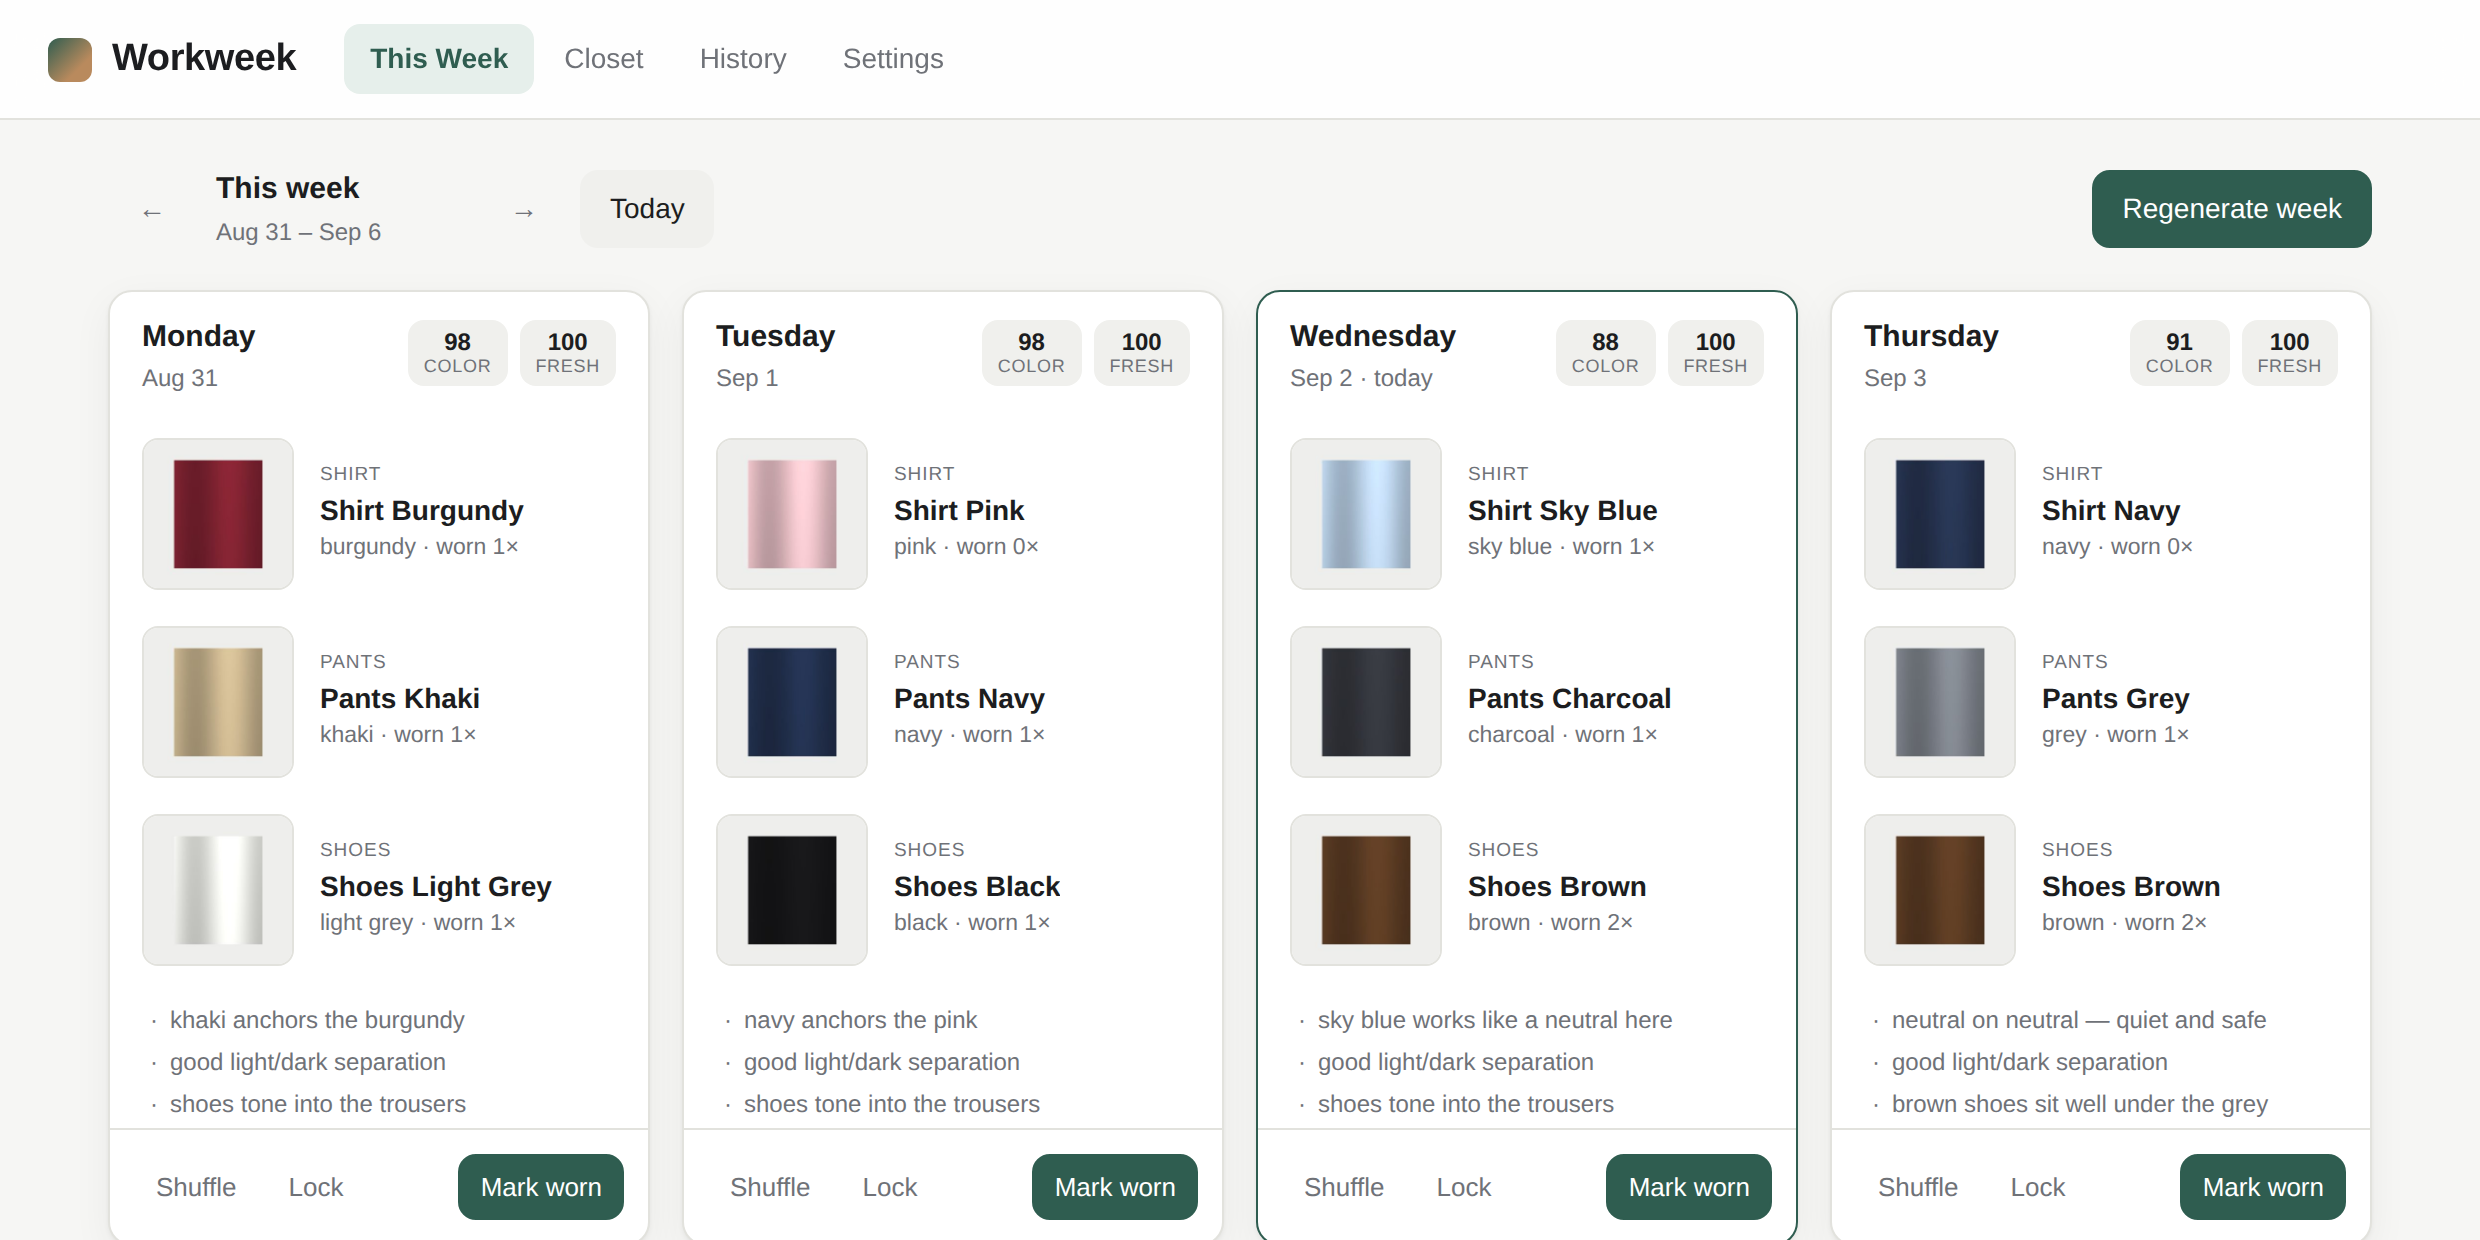
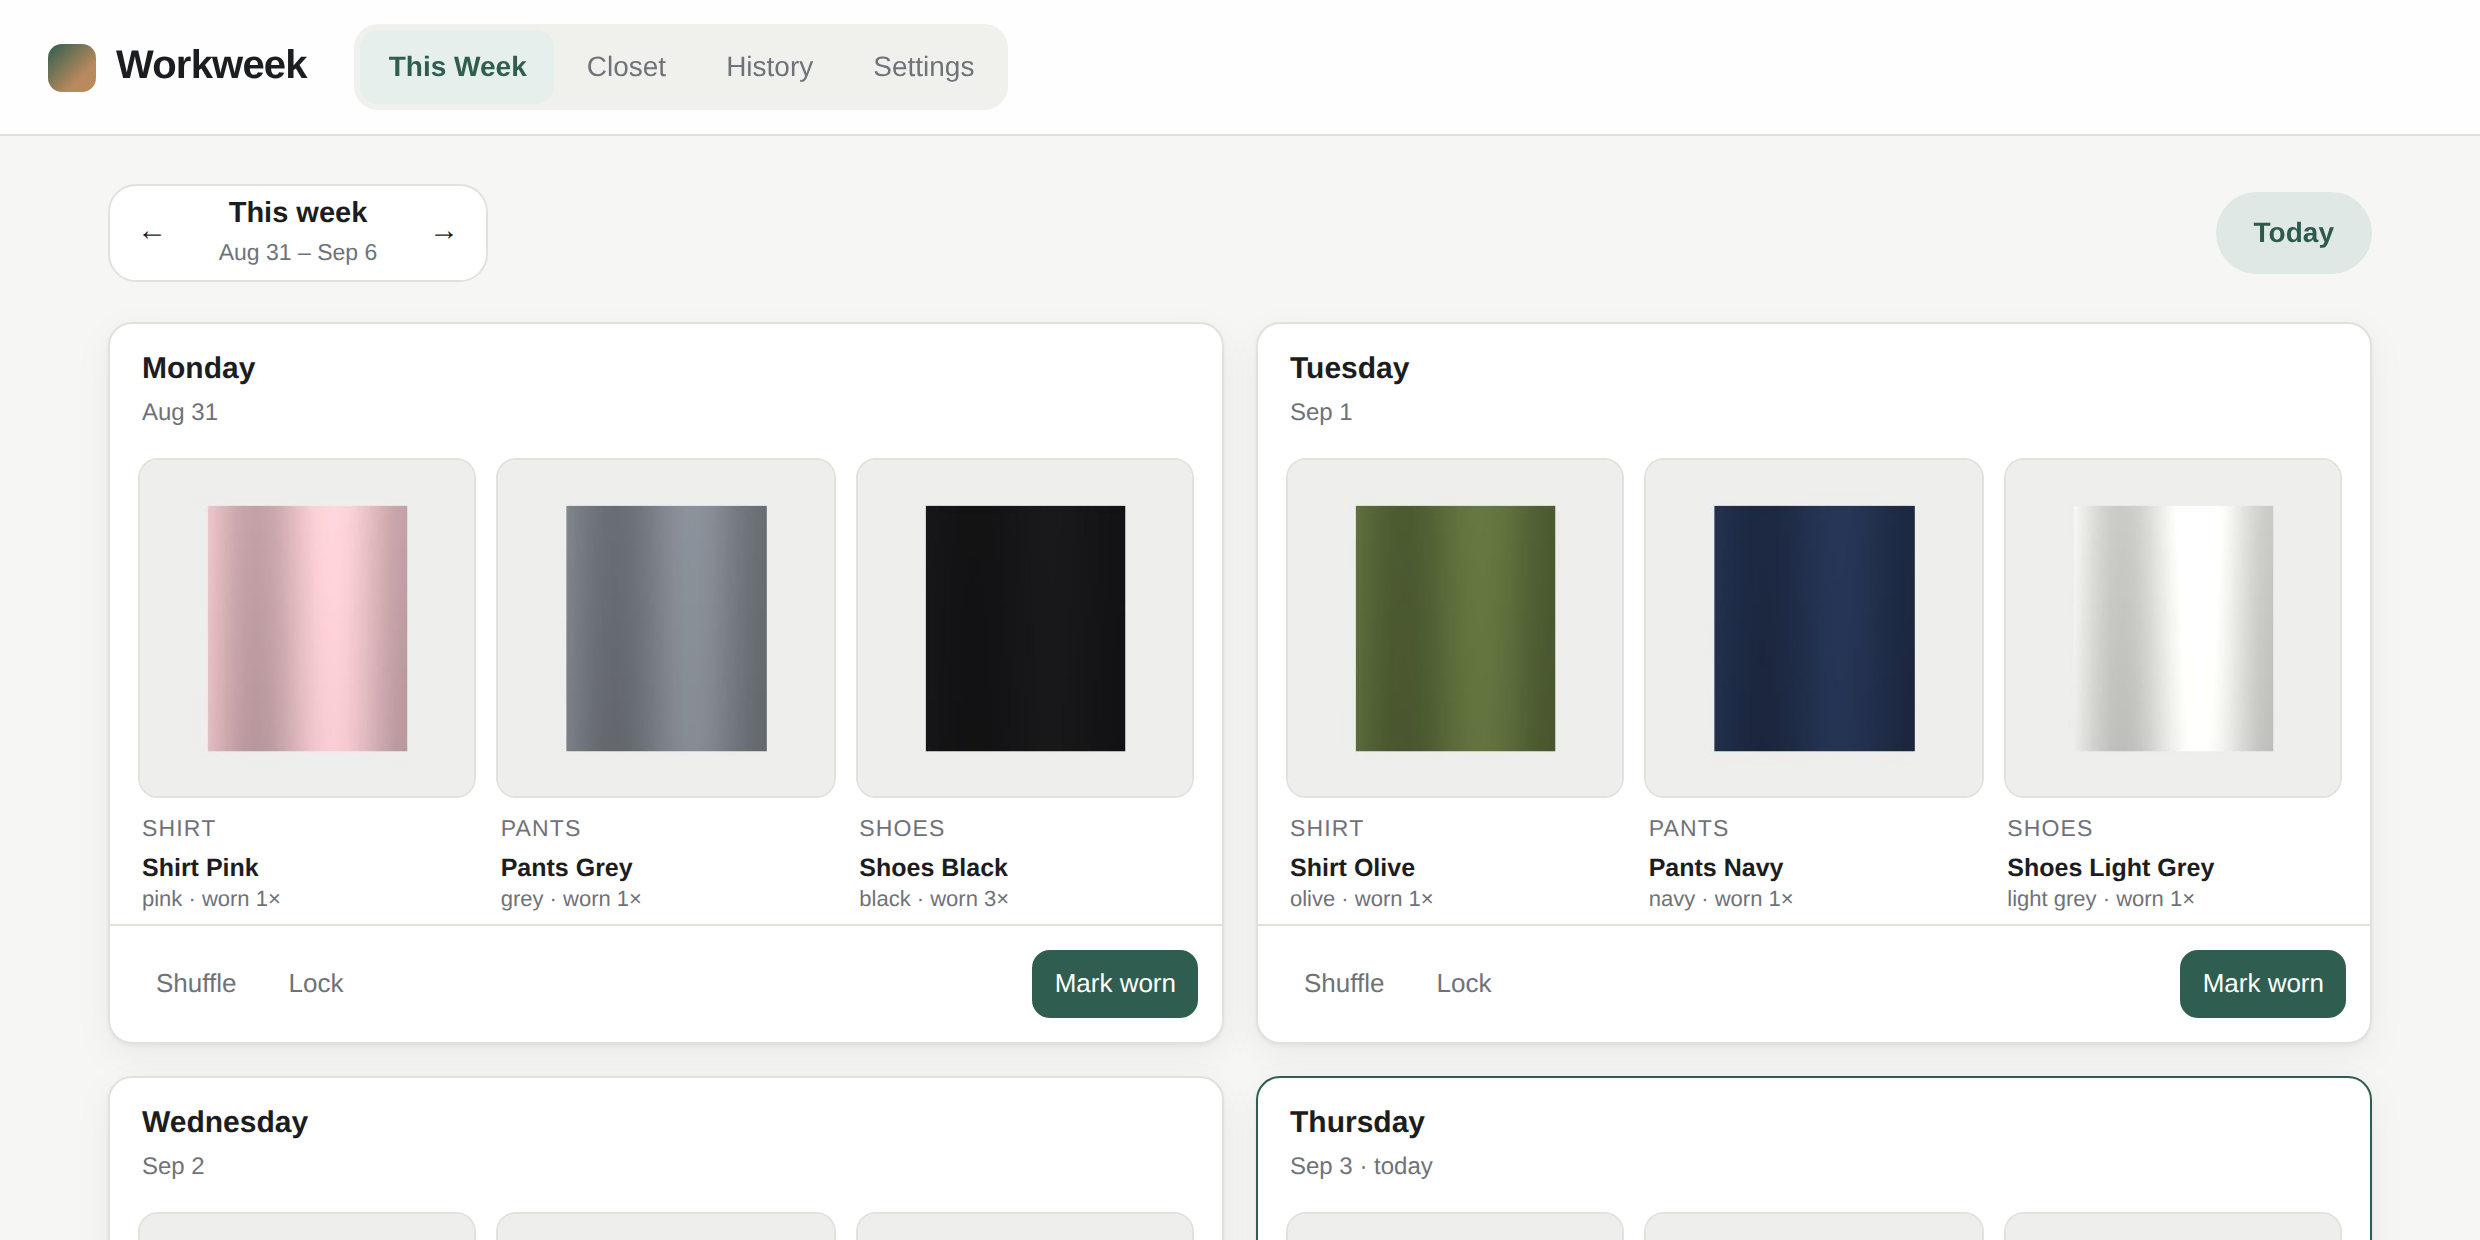
Redesign the week view for phone use, and modernize the header/nav
Six changes, all to how the week is presented — no scoring or generation
logic touched:

- Header: brand title bigger and bolder, top bar gets real breathing room on
  a phone (padding scales with env(safe-area-inset-top) for notched devices),
  and the tab bar reads as one segmented control instead of loose links.
- Each day's shirt/pants/shoes are now three large square photos side by
  side, with the item's role, name and color underneath each — the same
  photo-card treatment the closet already used, so a piece here and an item
  there look like the same object. Images went from a 46px thumb-in-a-row to
  100-170px depending on viewport.
- Removed the three-bullet "why this works" notes under each day and the
  color/fresh score badges in the day header — the scores and notes are
  still computed (outfit.colorScore/varietyScore/notes) and still drive
  generation and the History page, just no longer shown here.
- "This Week" navigation rebuilt as a pill-shaped pager (prev/label/next)
  with the Today button pulled out to the opposite end of the row via
  justify-content: space-between, instead of sitting 6px from the next-week
  arrow.
- Regenerate week moved below the day grid and restyled as a small, muted
  button rather than the loud primary action at the top.

Found and fixed one real bug while verifying on an actual phone viewport:
`grid-template-columns: repeat(auto-fill, minmax(400px, 1fr))` on the day
[…]

diff --git a/styles.css b/styles.css
@@ -39,7 +39,7 @@ body {
 }
 
 h1, h2, h3 { margin: 0; line-height: 1.25; }
-h1 { font-size: 19px; letter-spacing: -.01em; }
+h1 { font-size: 20px; font-weight: 800; letter-spacing: -.02em; }
 h2 { font-size: 20px; }
 h3 { font-size: 15px; }
 
@@ -60,17 +60,21 @@ h3 { font-size: 15px; }
 
 .brand { display: flex; align-items: center; gap: 10px; }
 .brand-mark {
-  width: 22px; height: 22px; border-radius: 6px;
+  width: 24px; height: 24px; border-radius: 7px; flex: none;
   background: linear-gradient(135deg, var(--accent), #b98a5d 70%);
 }
 
-.tabs { display: flex; gap: 2px; }
+/* A segmented pill rather than plain inline links — reads as one control. */
+.tabs {
+  display: flex; gap: 2px;
+  background: var(--surface-2); border-radius: 12px; padding: 3px;
+}
 .tab {
   border: 0; background: none; color: var(--muted);
-  padding: 7px 13px; border-radius: 8px; cursor: pointer;
+  padding: 8px 14px; border-radius: 9px; cursor: pointer;
   font: inherit; font-size: 14px;
 }
-.tab:hover { background: var(--surface-2); color: var(--text); }
+.tab:hover { background: var(--surface); color: var(--text); }
 .tab.is-active { background: var(--accent-soft); color: var(--accent); font-weight: 600; }
 
 main { max-width: 1180px; margin: 0 auto; padding: 24px; }
@@ -122,15 +126,47 @@ main { max-width: 1180px; margin: 0 auto; padding: 24px; }
 
 /* ---------------- week view ---------------- */
 
-.week-nav { display: flex; align-items: center; gap: 6px; }
-.week-label { display: flex; flex-direction: column; min-width: 130px; padding: 0 4px; }
-.week-label span { font-size: 12px; }
+.week-nav {
+  display: flex; align-items: center; justify-content: space-between;
+  gap: 16px; row-gap: 10px; width: 100%; flex-wrap: wrap;
+}
 
-.week-actions { display: flex; align-items: center; gap: 16px; flex-wrap: wrap; }
+/* Prev / label / next read as one control; Today sits apart from it, at the
+   opposite end of the row, so it never reads as part of the same cluster. */
+.week-pager {
+  display: flex; align-items: center; gap: 2px;
+  background: var(--surface); border: 1px solid var(--border);
+  border-radius: 14px; padding: 4px;
+}
+.week-pager .btn {
+  width: 34px; height: 34px; padding: 0; flex: none;
+  display: flex; align-items: center; justify-content: center;
+  border: 0; border-radius: 10px; font-size: 15px;
+}
+.week-label {
+  display: flex; flex-direction: column; align-items: center;
+  min-width: 108px; padding: 0 6px; text-align: center;
+}
+.week-label strong { font-size: 14.5px; }
+.week-label span { font-size: 11.5px; }
+
+.week-today-btn {
+  flex: none; font-weight: 600;
+  background: var(--accent-soft); color: var(--accent); border-color: transparent;
+  border-radius: 999px; padding: 9px 18px;
+}
+.week-today-btn:hover { background: var(--accent-soft); filter: brightness(0.97); }
+
+.week-footer { display: flex; justify-content: center; margin-top: 22px; }
+.week-footer .btn { padding: 9px 20px; font-size: 13px; color: var(--muted); }
+.week-footer .btn:hover { color: var(--text); }
 
 .day-grid {
   display: grid; gap: 16px;
-  grid-template-columns: repeat(auto-fill, minmax(270px, 1fr));
+  /* minmax()'s minimum is a hard floor, not a cap — on a viewport narrower
+     than 400px the single track would still demand 400px and overflow.
+     min(400px, 100%) lets it shrink to fit when there is only one column. */
+  grid-template-columns: repeat(auto-fill, minmax(min(400px, 100%), 1fr));
 }
 
 .day-card {
@@ -147,40 +183,27 @@ main { max-width: 1180px; margin: 0 auto; padding: 24px; }
 }
 .day-head span { font-size: 12px; }
 
-.badges { display: flex; gap: 6px; }
-.badge {
-  display: flex; flex-direction: column; align-items: center;
-  background: var(--surface-2); border-radius: 8px;
-  padding: 4px 8px; font-size: 13px; font-weight: 600; line-height: 1.2;
-}
-.badge em { font-style: normal; font-size: 9px; font-weight: 500; color: var(--muted); text-transform: uppercase; letter-spacing: .04em; }
-
-.pieces { display: flex; flex-direction: column; gap: 2px; padding: 0 10px; }
-
-.piece { display: flex; align-items: center; gap: 13px; padding: 8px 6px; border-radius: 9px; }
-.piece:hover { background: var(--surface-2); }
-
-.thumb {
-  width: 76px; height: 76px; flex: none;
-  border-radius: 8px; overflow: hidden; border: 1px solid var(--border);
-}
-/* Square and filled, matching the closet cards. */
-.thumb img {
-  width: 100%; height: 100%; object-fit: cover; object-position: center;
-  display: block; background: var(--surface-2);
+/* Three garments side by side, each a large square photo with its details
+   underneath — the same card shape the closet uses, so a piece here and an
+   item there look like the same object. */
+.pieces {
+  display: grid; grid-template-columns: repeat(3, 1fr);
+  gap: 10px; padding: 2px 14px 4px;
 }
 
-.piece-meta { display: flex; flex-direction: column; min-width: 0; }
-.piece-meta strong { font-size: 14px; font-weight: 600; overflow: hidden; text-overflow: ellipsis; white-space: nowrap; }
-.piece-meta span { font-size: 11.5px; }
-.piece-label { text-transform: uppercase; letter-spacing: .05em; font-size: 9.5px !important; color: var(--muted); }
-
-.why { margin: 10px 16px 0; padding: 0; list-style: none; }
-.why li {
-  font-size: 12px; color: var(--muted);
-  padding-left: 14px; position: relative; margin-bottom: 3px;
+.piece { min-width: 0; }
+.piece .item-thumb { border: 1px solid var(--border); border-radius: 10px; overflow: hidden; }
+.piece .item-body { padding: 8px 2px 0; }
+.piece .item-body strong {
+  font-size: 12.5px; line-height: 1.28; font-weight: 600;
+  white-space: normal; overflow: hidden;
+  display: -webkit-box; -webkit-line-clamp: 2; -webkit-box-orient: vertical;
 }
-.why li::before { content: '·'; position: absolute; left: 4px; }
+.piece .item-body .muted { font-size: 11px; }
+.piece-label {
+  display: block; text-transform: uppercase; letter-spacing: .05em;
+  font-size: 9.5px; color: var(--muted); margin-bottom: 2px;
+}
 
 .day-actions {
   display: flex; align-items: center; gap: 4px;
@@ -397,8 +420,17 @@ select, textarea {
 /* ---------------- responsive ---------------- */
 
 @media (max-width: 640px) {
-  .topbar { flex-direction: column; align-items: stretch; gap: 10px; padding: 12px 16px; }
-  .tabs { justify-content: space-between; }
+  .topbar {
+    flex-direction: column; align-items: stretch; gap: 14px;
+    /* Room from the top of the screen (and a notch/status bar), not just from
+       the content below — that combination is what read as "too small /
+       too high up". */
+    padding: max(18px, env(safe-area-inset-top)) 16px 14px;
+  }
+  .brand h1 { font-size: 23px; }
+  .brand-mark { width: 28px; height: 28px; }
+  .tabs { justify-content: stretch; }
+  .tab { flex: 1; text-align: center; padding: 10px 8px; }
   main { padding: 16px; }
   .history-row { grid-template-columns: 1fr auto; row-gap: 4px; }
   .history-names { grid-column: 1 / -1; }
@@ -407,6 +439,9 @@ select, textarea {
   .closet-grid { gap: 10px; grid-template-columns: repeat(auto-fill, minmax(140px, 1fr)); }
   .closet-head-actions { width: 100%; justify-content: space-between; }
   .view-head h2 { width: 100%; }
+  .week-label { min-width: 92px; }
+  .week-pager .btn { width: 32px; height: 32px; }
+  .week-today-btn { padding: 8px 14px; }
 }
 
 /* ---------------- sync ---------------- */

diff --git a/js/app.js b/js/app.js
@@ -265,15 +265,6 @@
     head.innerHTML =
       `<div><h3>${Outfit.DAY_NAMES[date.getDay()]}</h3>
        <span class="muted">${fmt.format(date)}${isToday ? ' · today' : ''}</span></div>`;
-
-    if (outfit) {
-      const badge = document.createElement('div');
-      badge.className = 'badges';
-      badge.innerHTML =
-        `<span class="badge" title="Color harmony">${outfit.colorScore}<em>color</em></span>` +
-        `<span class="badge" title="How overdue these pieces are">${outfit.varietyScore}<em>fresh</em></span>`;
-      head.appendChild(badge);
-    }
     card.appendChild(head);
 
     if (!outfit) {
@@ -292,17 +283,6 @@
       pieces.appendChild(pieceEl(item, label));
     });
     card.appendChild(pieces);
-
-    if (outfit.notes && outfit.notes.length) {
-      const why = document.createElement('ul');
-      why.className = 'why';
-      outfit.notes.slice(0, 3).forEach(n => {
-        const li = document.createElement('li');
-        li.textContent = n;
-        why.appendChild(li);
-      });
-      card.appendChild(why);
-    }
 
     const actions = document.createElement('div');
     actions.className = 'day-actions';
@@ -327,15 +307,17 @@
     return card;
   }
 
+  /** One garment within a day's outfit — a large square photo, matching the
+   *  closet cards, with the item's role, name and color beneath it. */
   function pieceEl(item, label) {
-    const el = document.createElement('div');
+    const el = document.createElement('article');
     el.className = 'piece';
     const url = urlFor(item);
     el.innerHTML =
-      `<div class="thumb" style="background:${item.color}">` +
+      `<div class="item-thumb" style="background:${item.color}">` +
         (url ? `<img src="${url}" alt="${escapeHtml(item.name)}">` : '') +
       `</div>` +
-      `<div class="piece-meta">` +
+      `<div class="item-body">` +
         `<span class="piece-label">${label}</span>` +
         `<strong>${escapeHtml(item.name)}</strong>` +
         `<span class="muted">${Color.name(item.color)} · worn ${item.wearCount || 0}×</span>` +

diff --git a/index.html b/index.html
@@ -26,16 +26,15 @@
   <section id="view-week" class="view is-active">
     <div class="view-head">
       <div class="week-nav">
-        <button class="btn btn-ghost" id="week-prev" title="Previous week">&#8592;</button>
-        <div class="week-label">
-          <strong id="week-title">This week</strong>
-          <span class="muted" id="week-range"></span>
+        <div class="week-pager">
+          <button class="btn" id="week-prev" title="Previous week" aria-label="Previous week">&#8592;</button>
+          <div class="week-label">
+            <strong id="week-title">This week</strong>
+            <span class="muted" id="week-range"></span>
+          </div>
+          <button class="btn" id="week-next" title="Next week" aria-label="Next week">&#8594;</button>
         </div>
-        <button class="btn btn-ghost" id="week-next" title="Next week">&#8594;</button>
-        <button class="btn btn-ghost" id="week-today">Today</button>
-      </div>
-      <div class="week-actions">
-        <button class="btn btn-primary" id="regenerate">Regenerate week</button>
+        <button class="btn week-today-btn" id="week-today">Today</button>
       </div>
     </div>
 
@@ -46,6 +45,10 @@
     </div>
 
     <div class="day-grid" id="day-grid"></div>
+
+    <div class="week-footer">
+      <button class="btn" id="regenerate">Regenerate week</button>
+    </div>
   </section>
 
   <!-- ============================ CLOSET ============================ -->

diff --git a/README.md b/README.md
@@ -52,18 +52,18 @@ To put it online, push this repo and turn on **GitHub Pages** (Settings → Page
    card. Unchecking **In rotation** benches it — kept in the closet, left out
    of outfits — which is what you want for laundry, seasonal pieces, or a shirt
    you have gone off.
-2. **This Week** — four outfits, generated. Each shows why it was picked.
+2. **This Week** — four outfits, generated, each shown as its shirt, pants and
+   shoes side by side.
    - **Shuffle** re-rolls one day, avoiding what the other days are using.
    - **Lock** pins a day you like so regenerating leaves it alone.
    - **Mark worn** logs it, which is what feeds the variety tracking. This is
      the one habit the app needs from you — without it, it can't know what
      you've actually worn.
+   - **Regenerate week**, at the bottom, re-rolls every day that isn't locked
+     or already worn.
 3. **History** — what you've worn, how much of your closet you've actually got
    through, and which pieces are still sitting unworn.
 4. **Settings** — work days, rotation gaps, and backup.
-
-Bench an item (the ✓ button on a closet card) to keep it while taking it out of
-rotation — laundry, seasonal, or a shirt you've gone off.
 
 ## How outfits get picked
 
